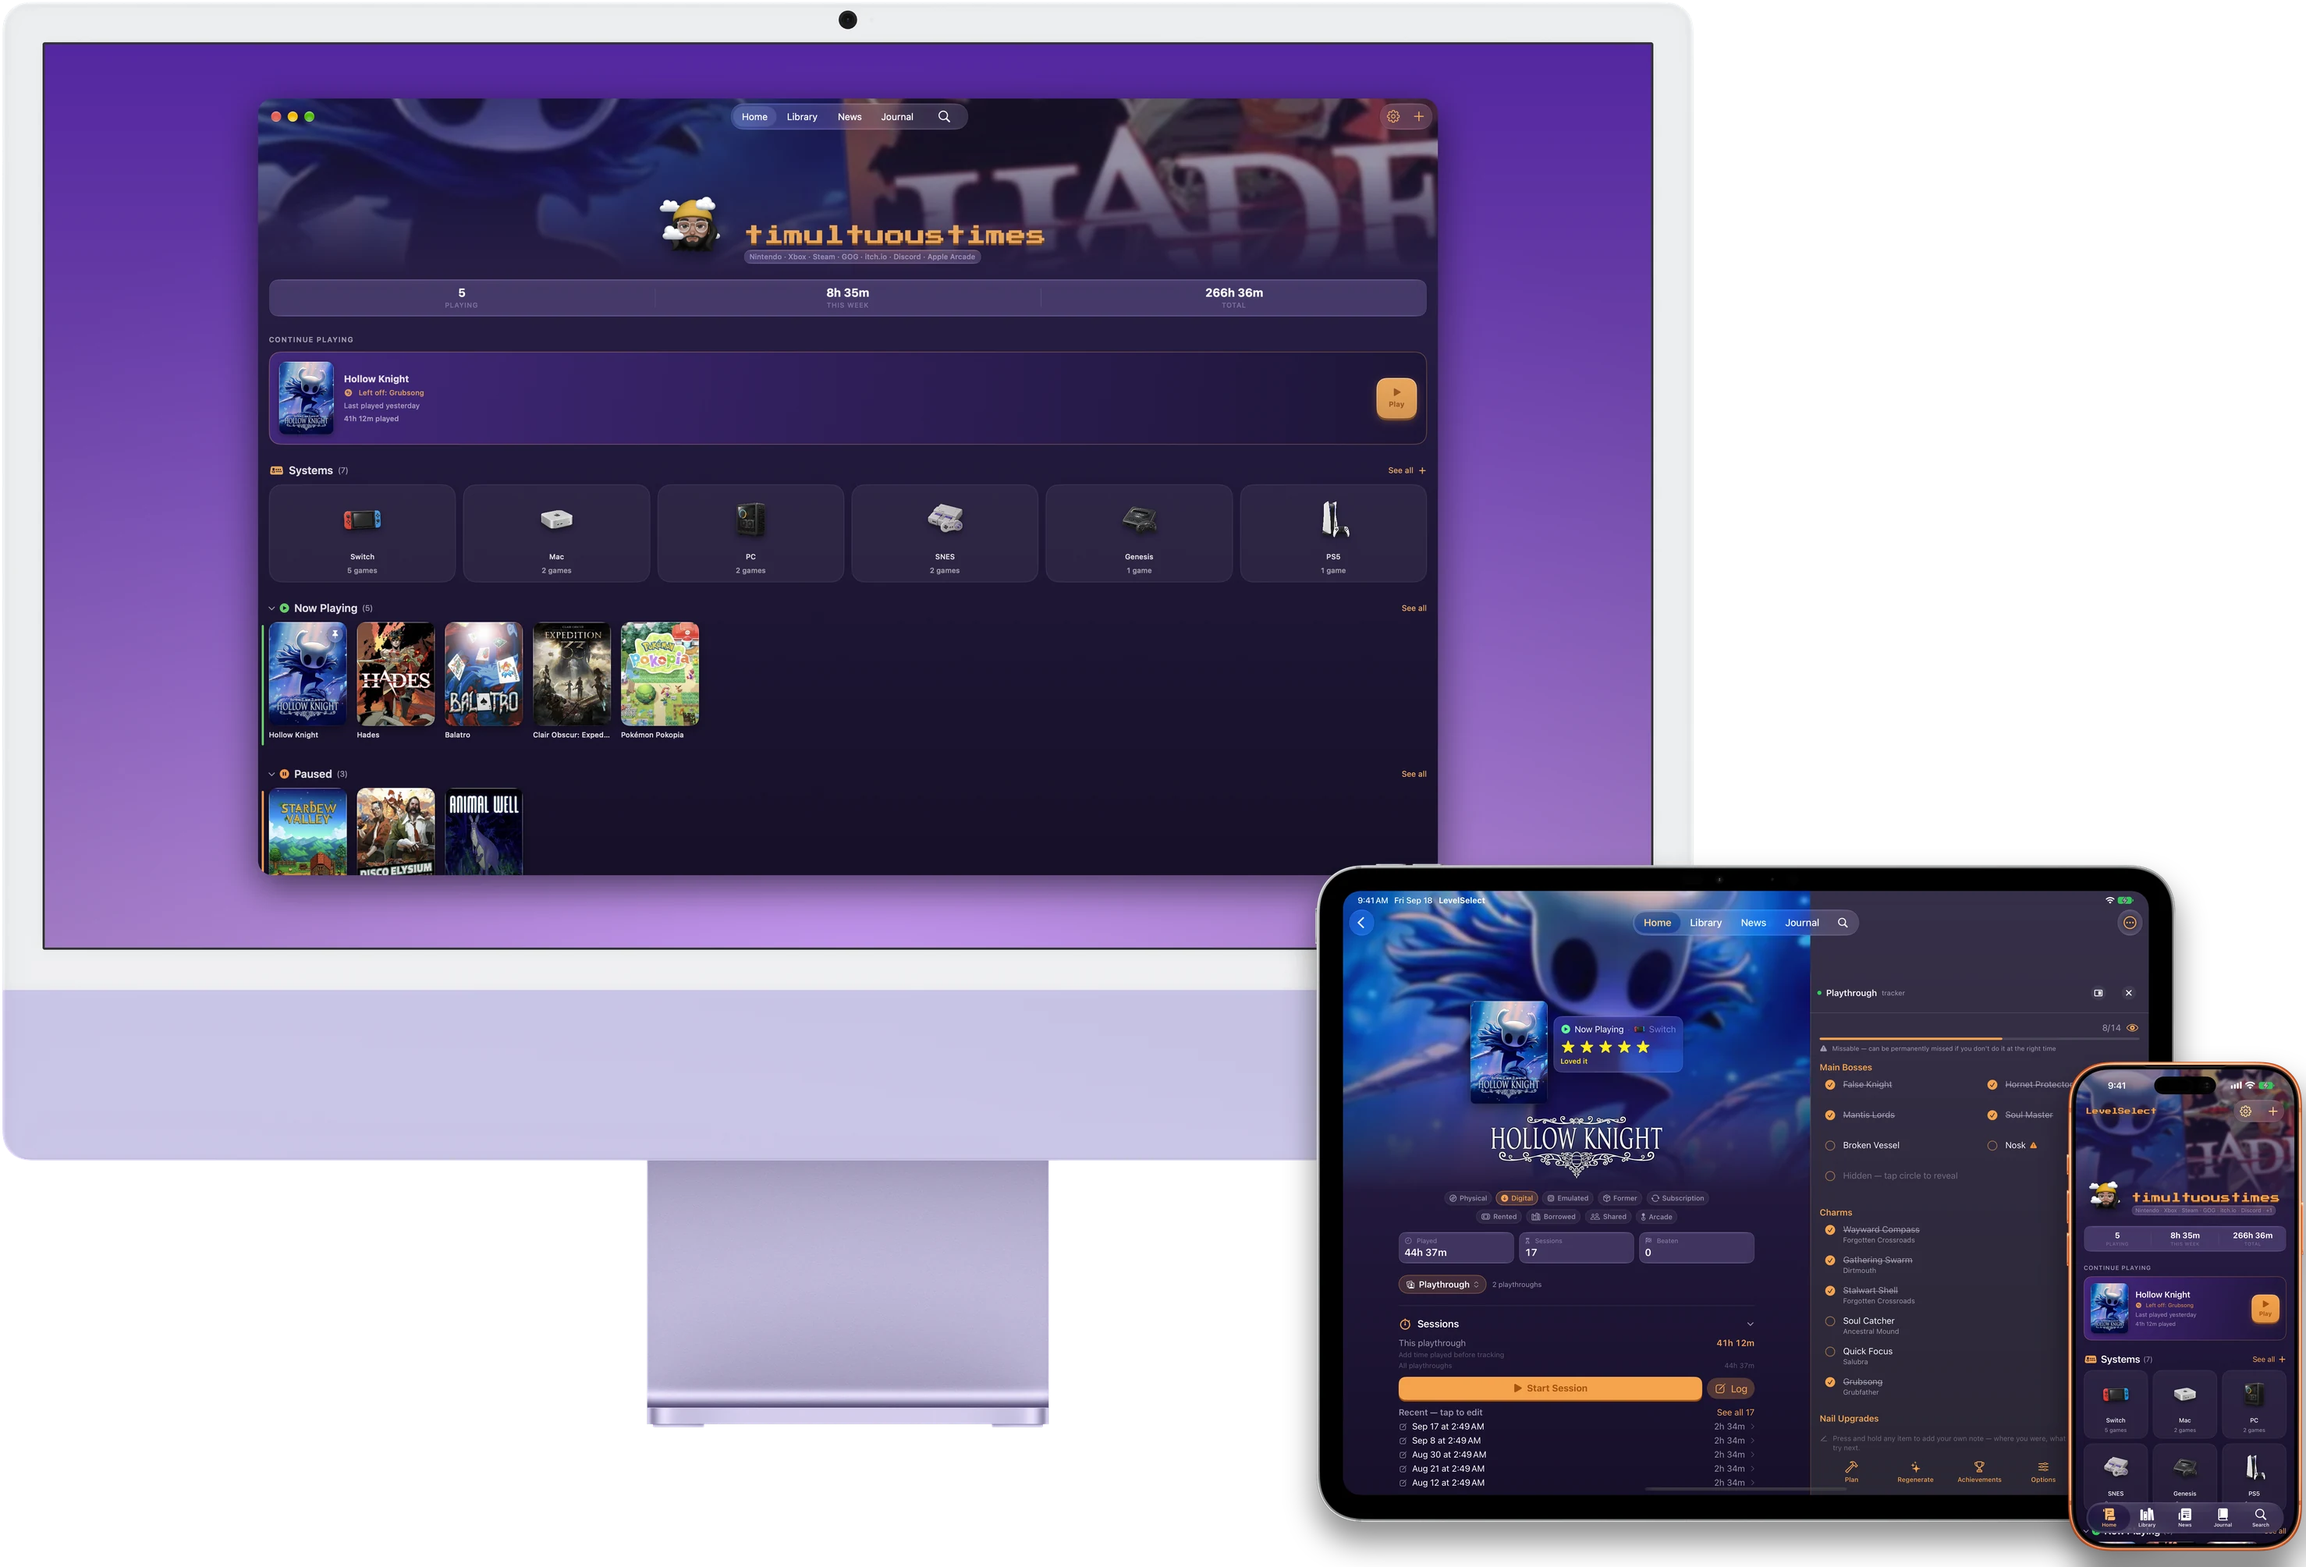
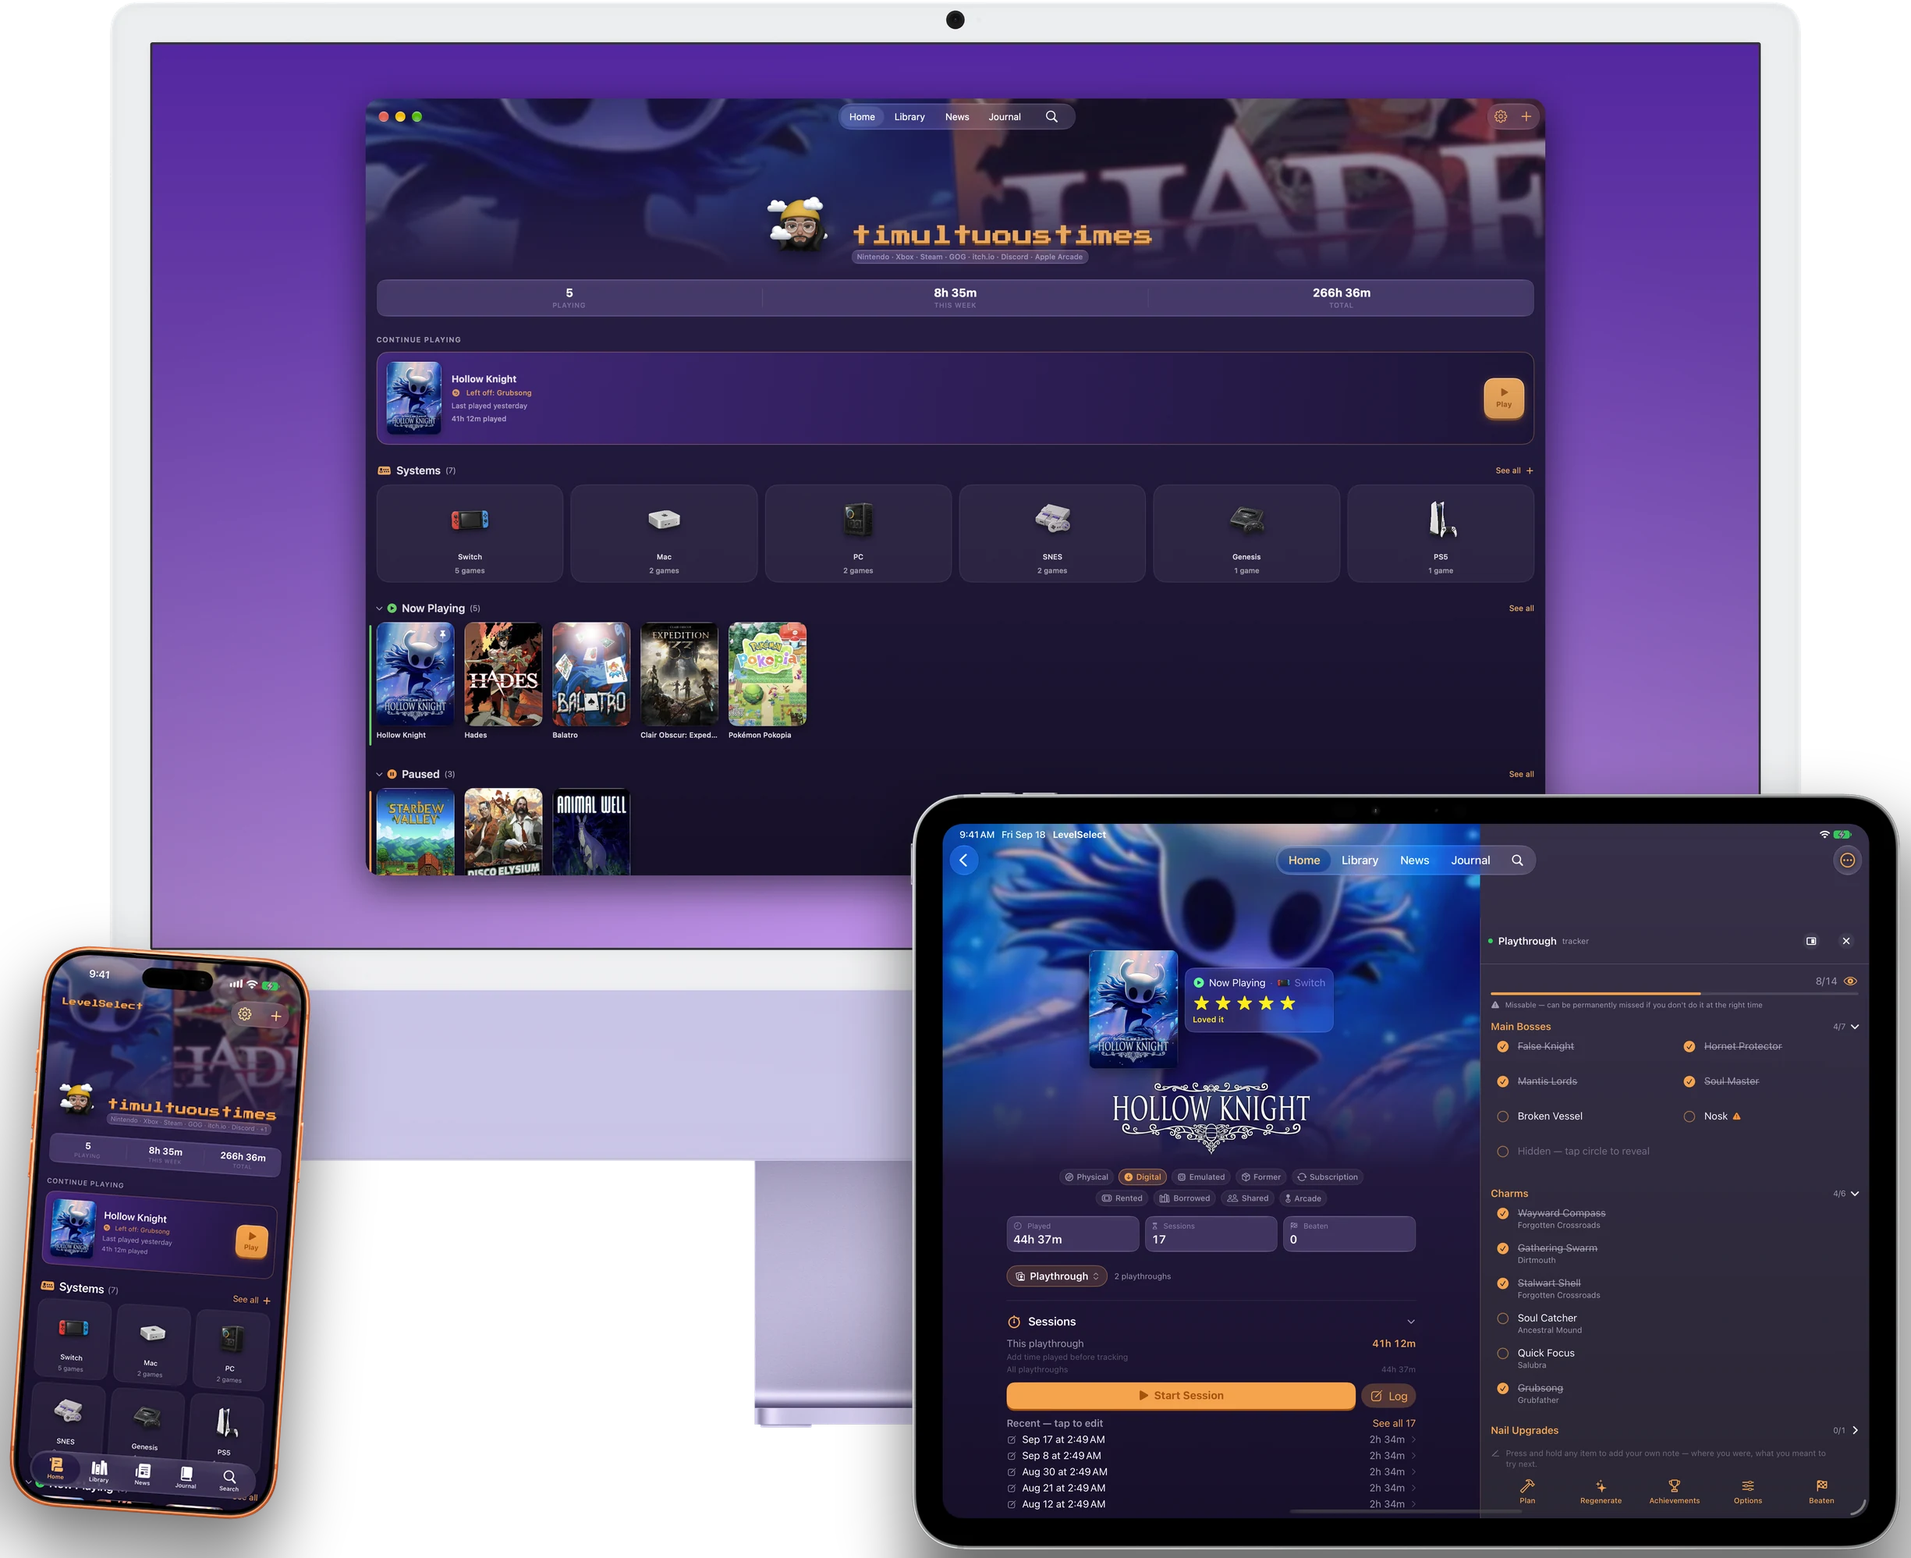
Hero: phone and iPad in front of the iMac, overlapping it

diff --git a/site/src/styles/style.css b/site/src/styles/style.css
@@ -193,7 +193,7 @@ h1.wordmark { font-size: clamp(1.5rem, 5.4vw, 2.85rem); margin: 0; }
 }
 /* Build 39: iMac, iPad and iPhone at their real relative sizes, composed
    once as a single image, so the scale cannot drift with CSS. */
-.hero-devices { max-width: 1040px; margin-inline: auto; }
+.hero-devices { max-width: 900px; margin-inline: auto; }
 .hero-devices img { width: 100%; height: auto; display: block;
   filter: drop-shadow(0 30px 50px rgba(0, 0, 0, .45)); }
 .stage-shot img { width: 100%; height: auto; display: block; margin: 0 auto calc(var(--step) * .5);
